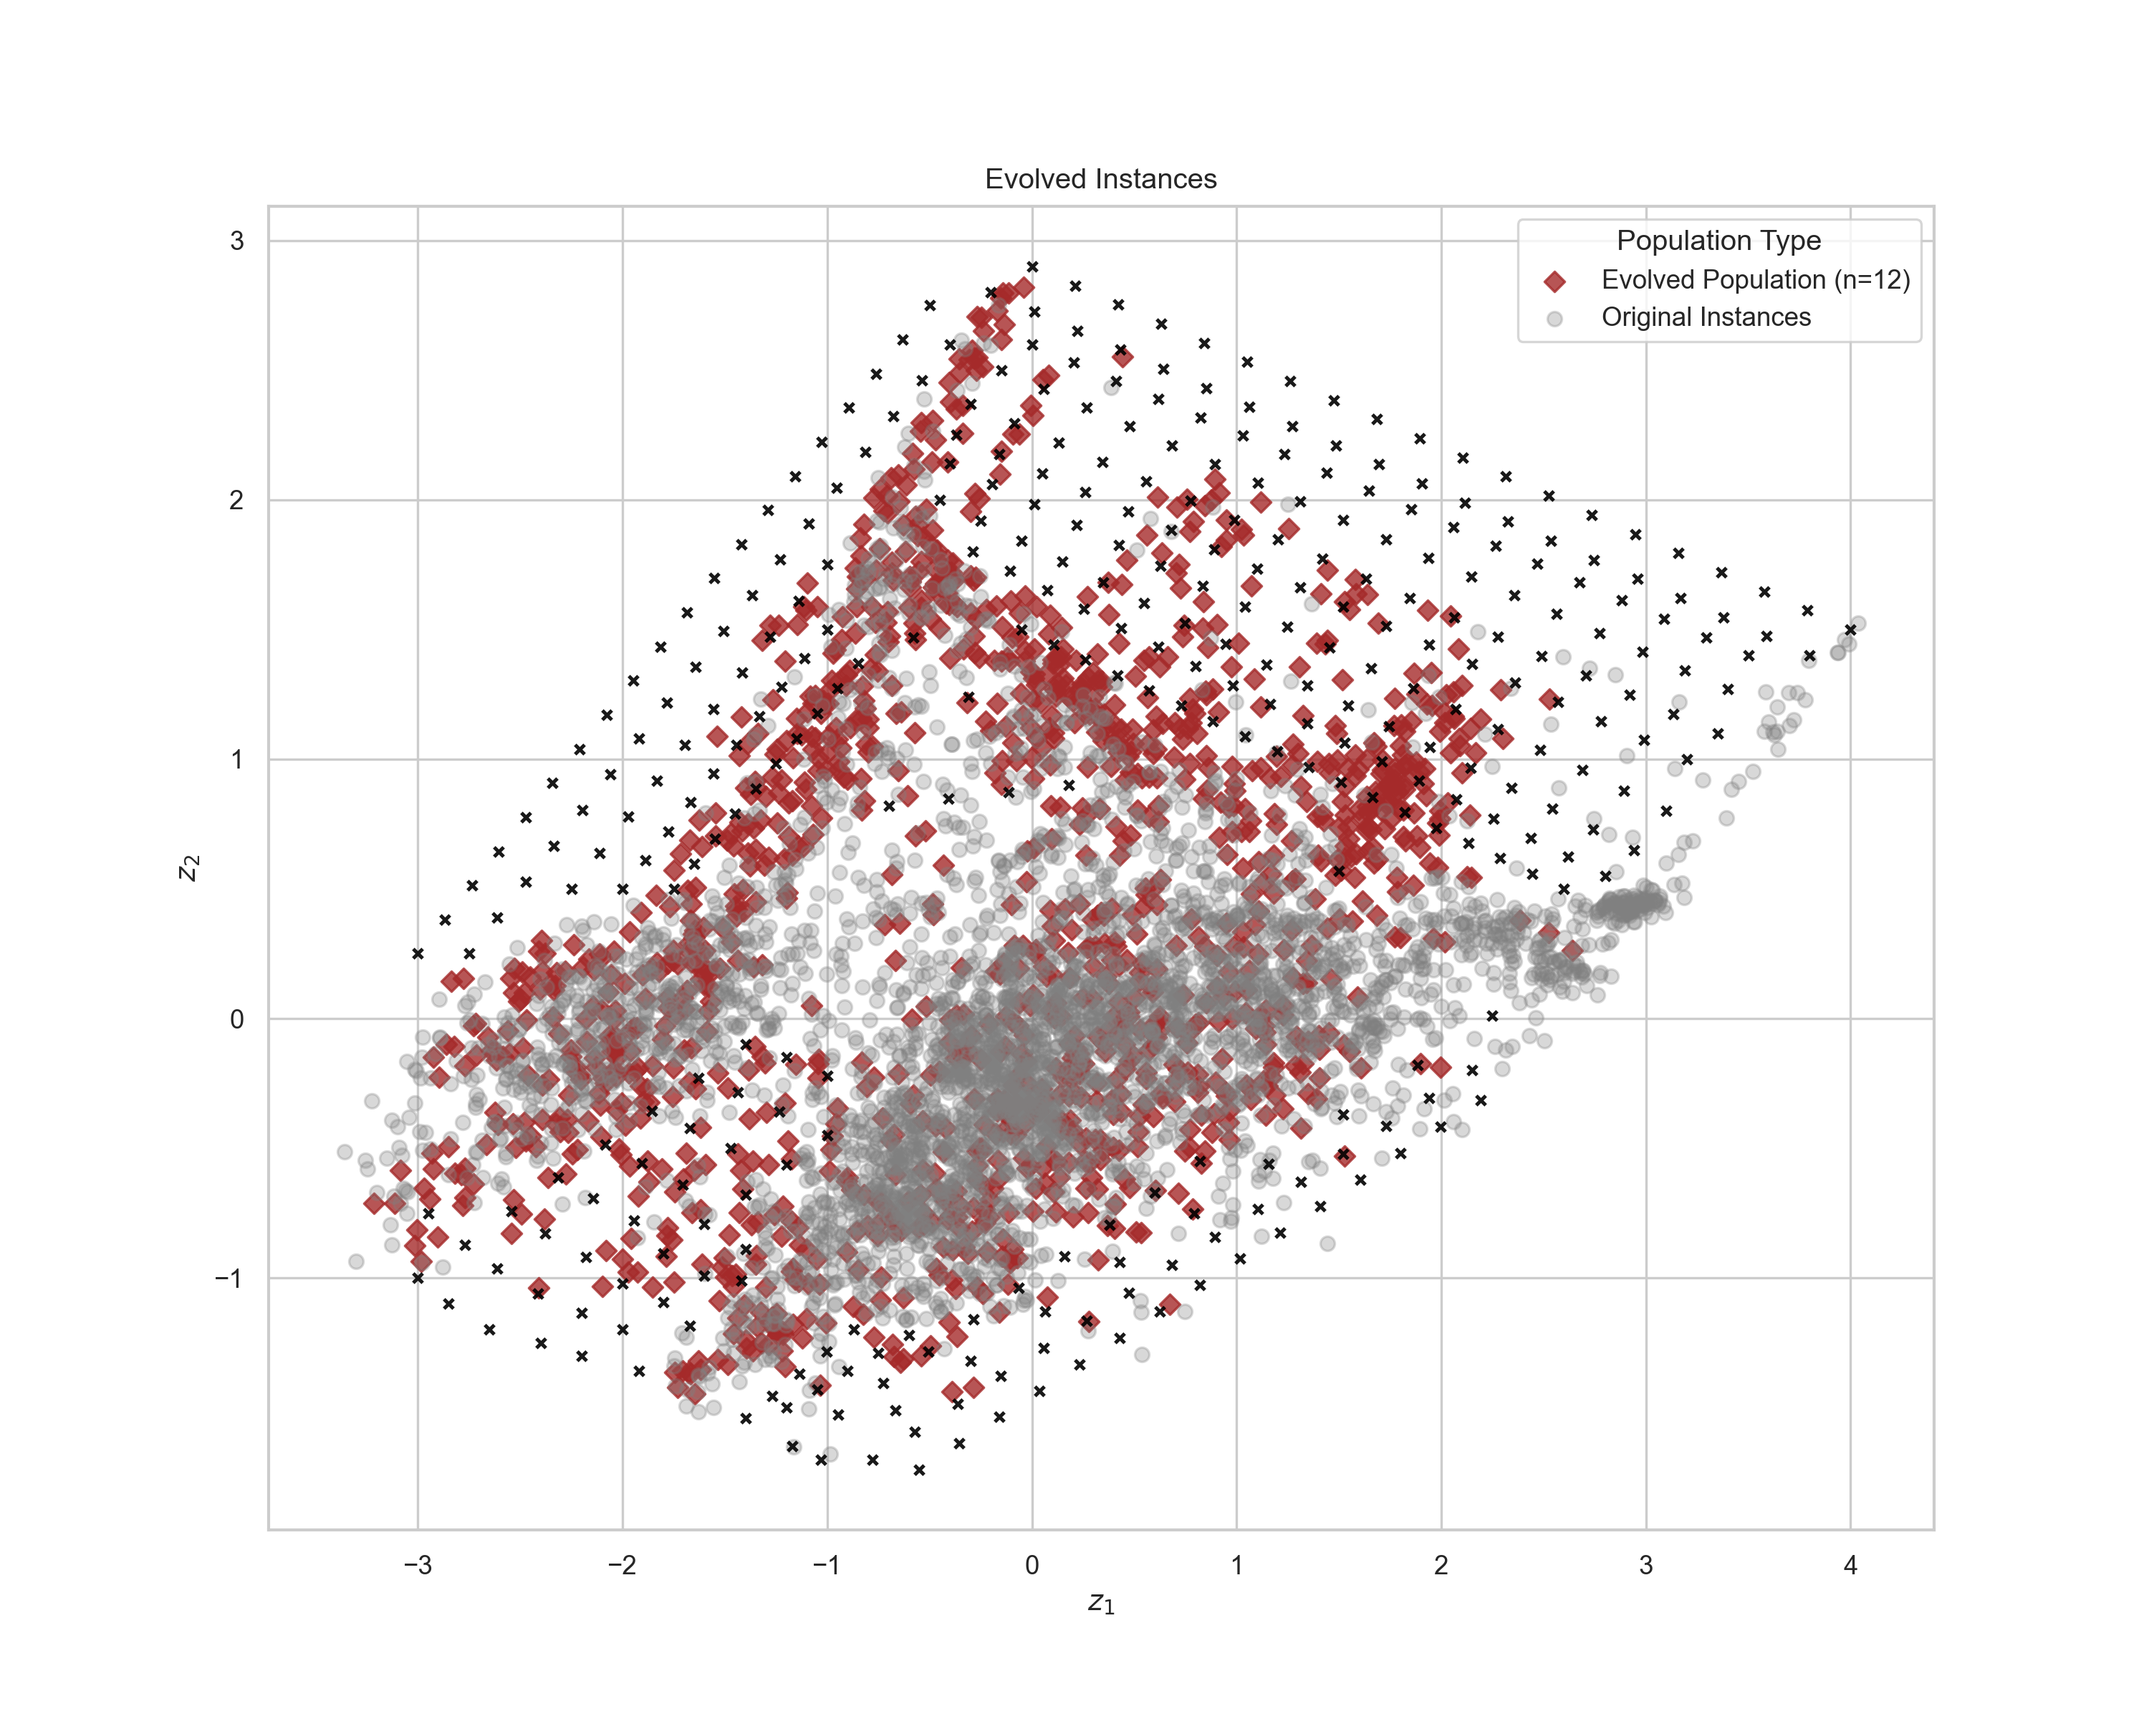
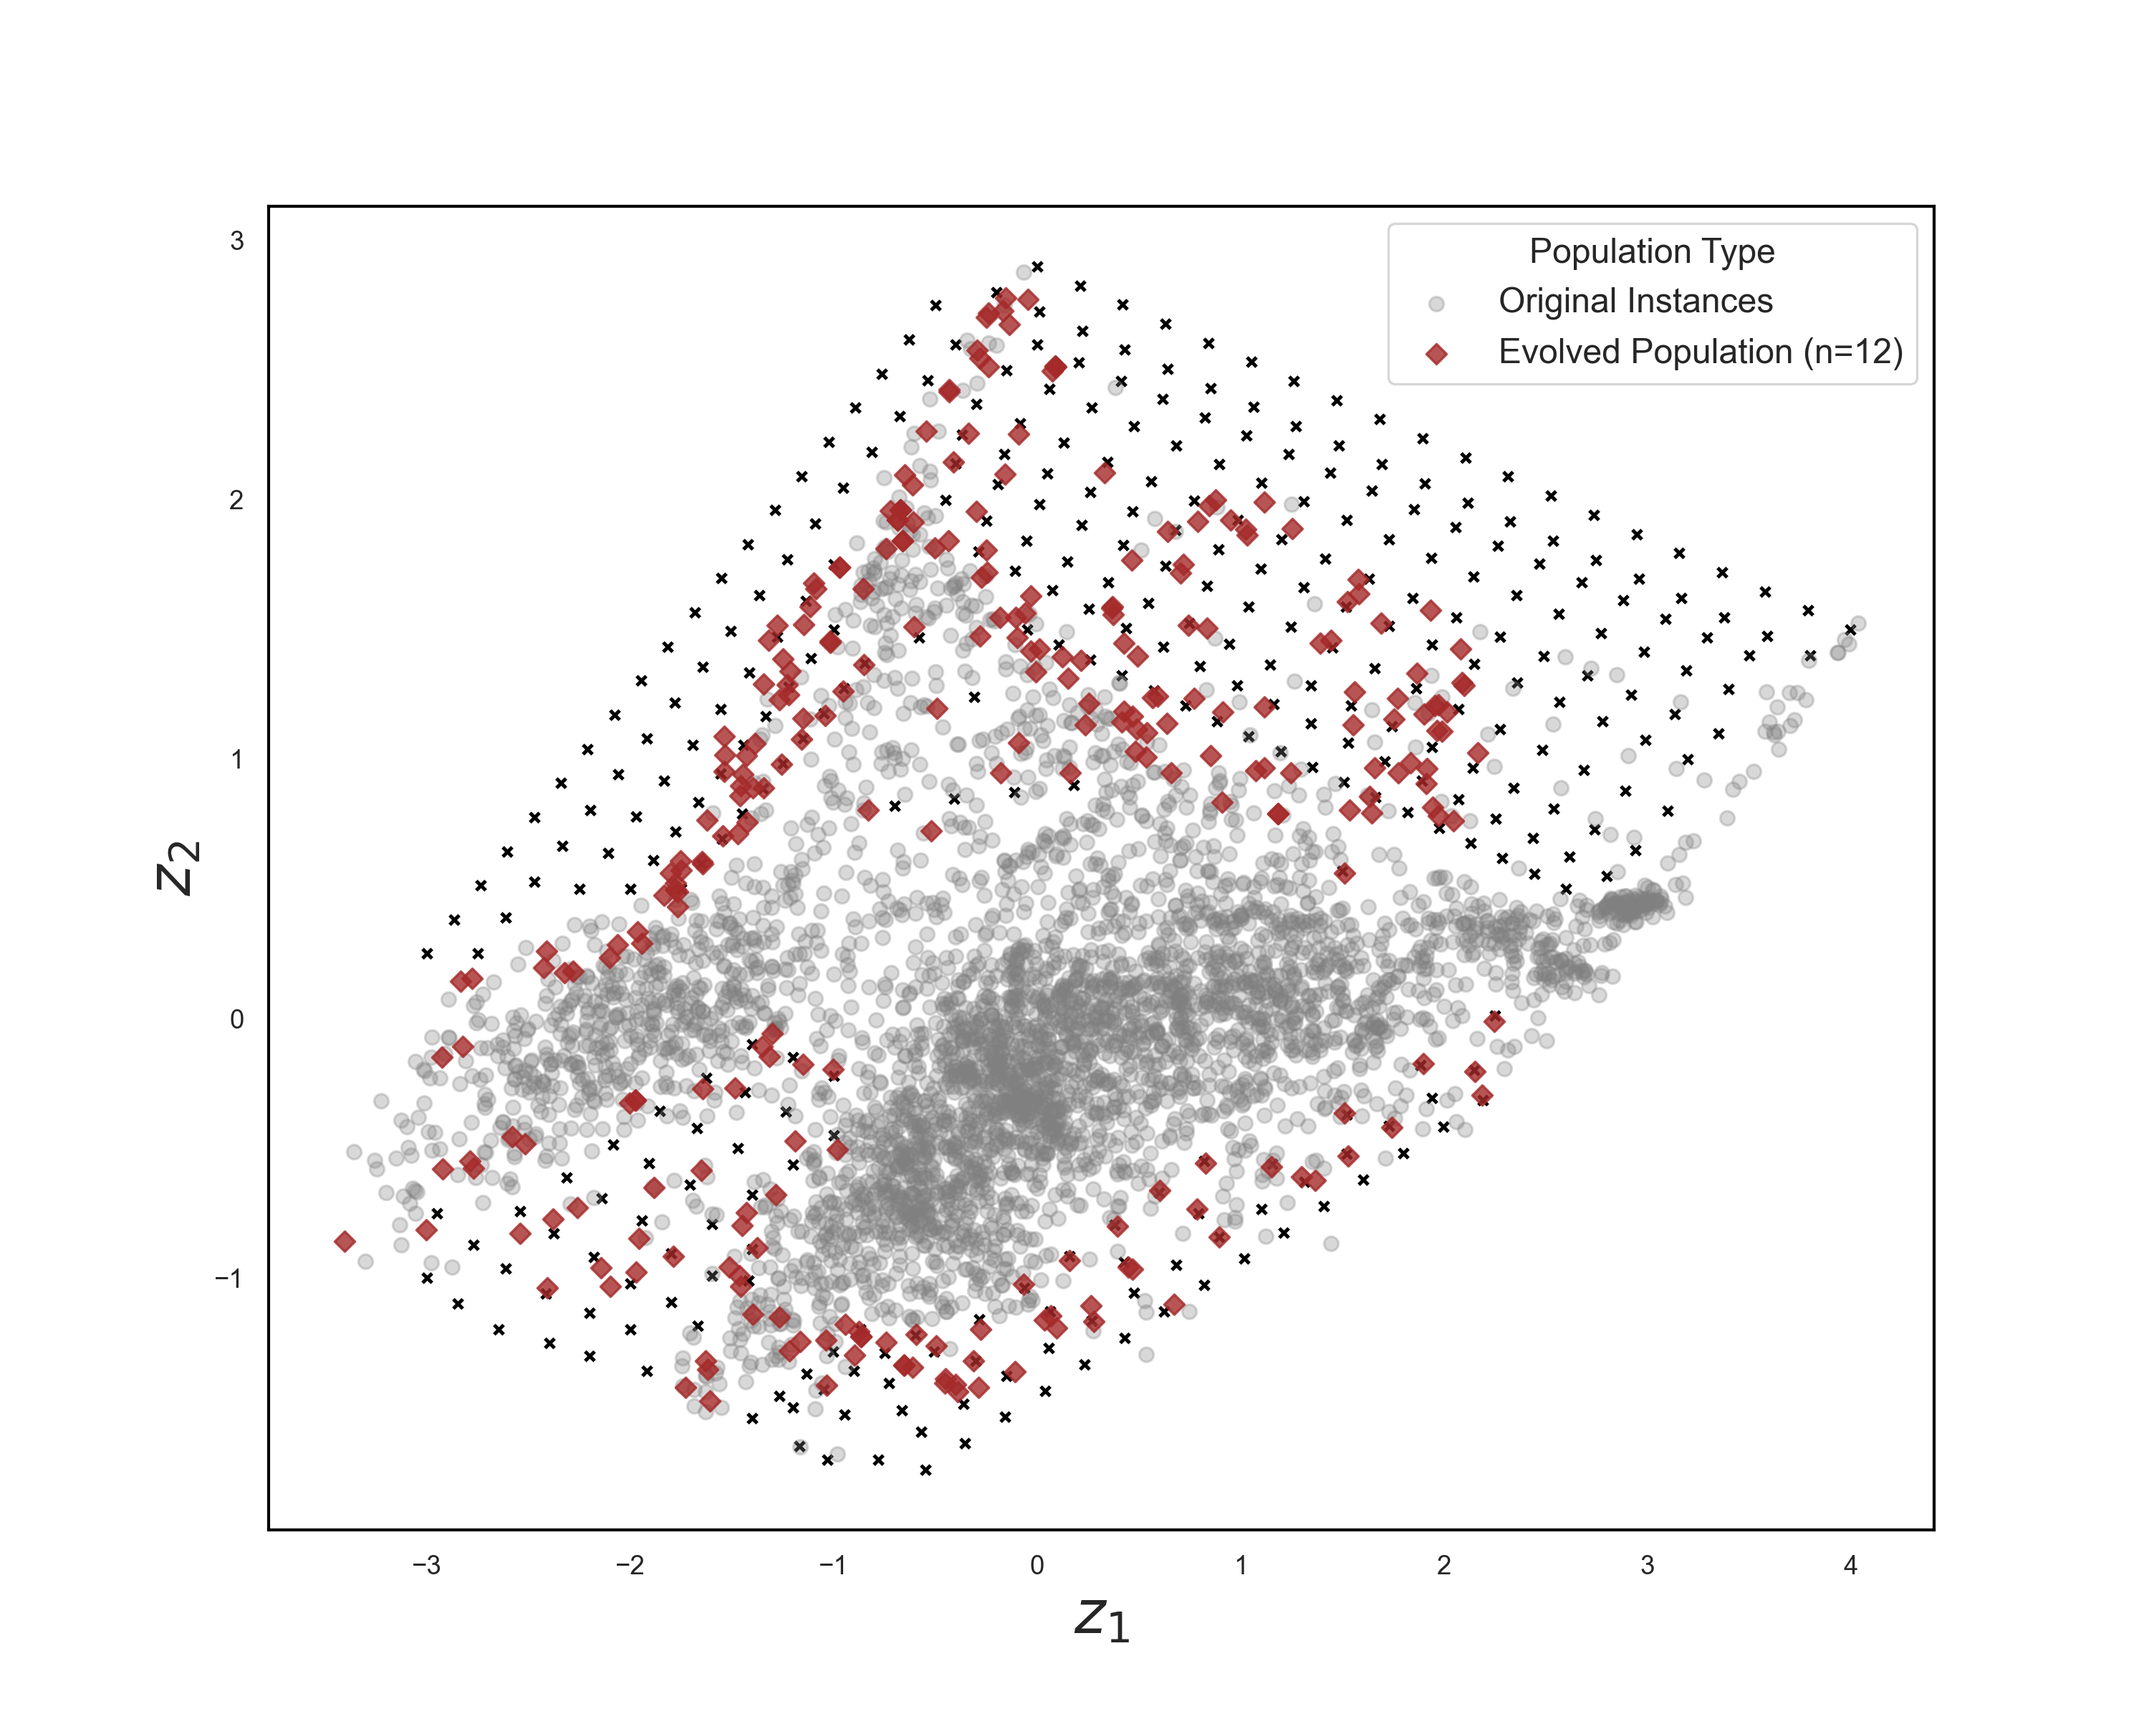
feat: Doing things

diff --git a/src/data/targets_evolved.py b/src/data/targets_evolved.py
@@ -269,51 +269,51 @@ target_points = [
     (2.8, 0.55),
     # Section 3
     # Line 1
-    # (-3.0, -1.0),
-    # (-2.7714285714285714, -0.8714285714285714),
-    # (-2.5428571428571427, -0.7428571428571429),
-    # (-2.314285714285714, -0.6142857142857143),
-    # (-2.085714285714286, -0.48571428571428577),
-    # (-1.8571428571428572, -0.3571428571428572),
-    # (-1.6285714285714286, -0.22857142857142865),
-    # (-1.4, -0.1),
-    # # Line 2
-    # (-2.85, -1.1),
-    # (-2.6142857142857143, -0.9642857142857144),
-    # (-2.3785714285714286, -0.8285714285714287),
-    # (-2.142857142857143, -0.692857142857143),
-    # (-1.9071428571428573, -0.5571428571428573),
-    # (-1.6714285714285715, -0.4214285714285716),
-    # (-1.4357142857142857, -0.2857142857142858),
-    # (-1.2, -0.15),
-    # # Line 3
-    # (-2.65, -1.2),
-    # (-2.414285714285714, -1.06),
-    # (-2.1785714285714284, -0.9199999999999999),
-    # (-1.9428571428571428, -0.78),
-    # (-1.7071428571428573, -0.64),
-    # (-1.4714285714285715, -0.5000000000000001),
-    # (-1.2357142857142858, -0.36),
-    # (-1.0, -0.22),
-    # # Line 3,
-    # (-2.4, -1.25),
-    # (-2.1999999999999997, -1.1357142857142857),
-    # (-2.0, -1.0214285714285714),
-    # (-1.7999999999999998, -0.9071428571428571),
-    # (-1.6, -0.7928571428571429),
-    # (-1.4000000000000001, -0.6785714285714286),
-    # (-1.2, -0.5642857142857143),
-    # (-1.0, -0.44999999999999996),
-    # # Line 4
-    # (-2.2, -1.3),
-    # (-2.0, -1.1975),
-    # (-1.8, -1.095),
-    # (-1.6, -0.9925),
-    # (-1.4, -0.89),
-    # # Line 5
-    # (-1.92, -1.36),
-    # (-1.67, -1.185),
-    # (-1.42, -1.01),
+    (-3.0, -1.0),
+    (-2.7714285714285714, -0.8714285714285714),
+    (-2.5428571428571427, -0.7428571428571429),
+    (-2.314285714285714, -0.6142857142857143),
+    (-2.085714285714286, -0.48571428571428577),
+    (-1.8571428571428572, -0.3571428571428572),
+    (-1.6285714285714286, -0.22857142857142865),
+    (-1.4, -0.1),
+    # Line 2
+    (-2.85, -1.1),
+    (-2.6142857142857143, -0.9642857142857144),
+    (-2.3785714285714286, -0.8285714285714287),
+    (-2.142857142857143, -0.692857142857143),
+    (-1.9071428571428573, -0.5571428571428573),
+    (-1.6714285714285715, -0.4214285714285716),
+    (-1.4357142857142857, -0.2857142857142858),
+    (-1.2, -0.15),
+    # Line 3
+    (-2.65, -1.2),
+    (-2.414285714285714, -1.06),
+    (-2.1785714285714284, -0.9199999999999999),
+    (-1.9428571428571428, -0.78),
+    (-1.7071428571428573, -0.64),
+    (-1.4714285714285715, -0.5000000000000001),
+    (-1.2357142857142858, -0.36),
+    (-1.0, -0.22),
+    # Line 3,
+    (-2.4, -1.25),
+    (-2.1999999999999997, -1.1357142857142857),
+    (-2.0, -1.0214285714285714),
+    (-1.7999999999999998, -0.9071428571428571),
+    (-1.6, -0.7928571428571429),
+    (-1.4000000000000001, -0.6785714285714286),
+    (-1.2, -0.5642857142857143),
+    (-1.0, -0.44999999999999996),
+    # Line 4
+    (-2.2, -1.3),
+    (-2.0, -1.1975),
+    (-1.8, -1.095),
+    (-1.6, -0.9925),
+    (-1.4, -0.89),
+    # Line 5
+    (-1.92, -1.36),
+    (-1.67, -1.185),
+    (-1.42, -1.01),
     # Section 4
     # Line 1
     (-1.4, -1.54),

diff --git a/src/plot_instances_all.py b/src/plot_instances_all.py
@@ -106,17 +106,26 @@ def main():
 
 
     # Set plot aesthetics
-    plt.title("Evolved Instances")
+    # plt.title("Evolved Instances")
 
 
+    # Make axis labels larger
+    plt.xlabel("$z_1$", fontsize=20)
+    plt.ylabel("$z_2$", fontsize=20)
+    # Remove the grid lines
+    plt.grid(False)
+    # Make the chart frame black
+    plt.gca().spines['bottom'].set_color('black')
+    plt.gca().spines['top'].set_color('black')
+    plt.gca().spines['right'].set_color('black')
+    plt.gca().spines['left'].set_color('black')
 
-    plt.xlabel("$z_1$")
-    plt.ylabel("$z_2$")
-    plt.legend(title="Population Type")
-    plt.grid(True)
+    
+
+    plt.legend(title="Population Type", title_fontsize='larger', fontsize='larger')
 
     # Write the plot to a file
-    plt.savefig('evolved_instances_all.png')
+    plt.savefig('evolved_instances.png', dpi=300)
 
 if __name__ == "__main__":
     main()

diff --git a/src/algorithm/ga.py b/src/algorithm/ga.py
@@ -194,6 +194,14 @@ def integrate_elitism(population, fitness_scores, elite_size):
 
 
 def elitist_selection(population, fitness_scores, elite_size):
+    """ Elitist selection: Select the top-performing individuals from the population.
+    Parameters:
+    - population: List of individuals in the current generation.
+    - fitness_scores: Corresponding fitness scores for the population.
+    - elite_size: Number of top individuals to select.
+    Returns:
+    - new_population: Population for the next generation with elites included.
+    """
     # Ensure elite_size does not exceed the population size
     elite_size = min(elite_size, len(population))
 
